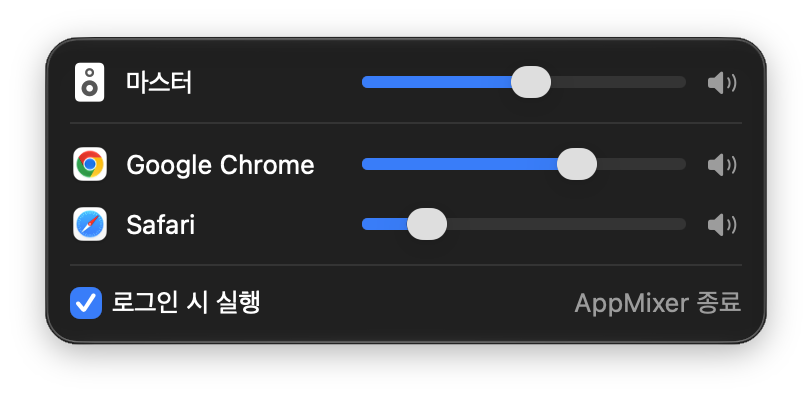
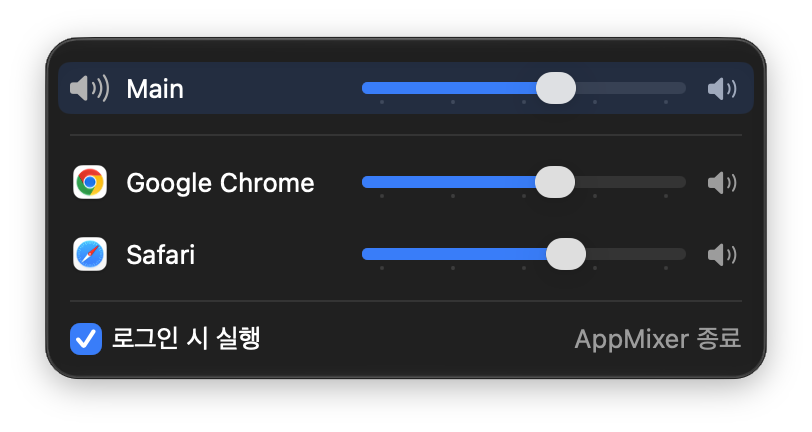
앱 감지 지연 개선, 마스터 행을 Main으로 변경
- IsRunningOutput은 변경 이벤트가 오지 않아 IsRunning을 구독
- IO 콜백 생성, 시작, 정지를 메인 스레드 밖 직렬 큐로 이동
- 맨 위 행 이름을 Main으로, 아이콘을 음파 스피커로 변경
- README 스크린샷 교체

diff --git a/AppMixer/Audio/CoreAudioEngine.swift b/AppMixer/Audio/CoreAudioEngine.swift
@@ -103,7 +103,9 @@ final class CoreAudioEngine: AudioEngine {
 
         for process in processes {
             if watchedProcesses.insert(process).inserted, let block = processListener {
-                var addr = Self.address(kAudioProcessPropertyIsRunningOutput)
+                // IsRunningOutput은 값만 바뀌고 변경 이벤트가 오지 않아서(macOS 27에서 측정) IsRunning을 구독한다.
+                // shortcut: 마이크와 출력을 같이 쓰던 앱이 출력만 멈추면 이벤트가 없어 다음 갱신 때 반영됨, 문제가 되면 주기적 확인 추가
+                var addr = Self.address(kAudioProcessPropertyIsRunning)
                 AudioObjectAddPropertyListenerBlock(process, &addr, .main, block)
             }
             guard let pid = Self.get(process, kAudioProcessPropertyPID, as: pid_t.self) else { continue }
@@ -164,7 +166,9 @@ final class CoreAudioEngine: AudioEngine {
                 tap.gain.pointee = gain
             } else if let processes = processesByOwner[owner], !processes.isEmpty,
                       let uid = Self.get(device, kAudioDevicePropertyDeviceUID, as: Unmanaged<CFString>.self)?.takeRetainedValue() {
-                taps[owner] = AppTap(processes: processes, outputUID: uid as String, gain: gain)
+                taps[owner] = AppTap(processes: processes, outputUID: uid as String, gain: gain) { [weak self] in
+                    self?.taps[owner] = nil // 시작 실패: 앱이 음소거된 채 남지 않게 정리. 다음 갱신 때 다시 시도한다
+                }
                 log.info("tap 생성 \(self.taps[owner] == nil ? "실패" : "성공"): pid \(owner)")
             }
         }
@@ -237,9 +241,13 @@ private final class AppTap {
     let gain = UnsafeMutablePointer<Float>.allocate(capacity: 1)
     private var tapID = AudioObjectID(kAudioObjectUnknown)
     private var aggregateID = AudioObjectID(kAudioObjectUnknown)
-    private var procID: AudioDeviceIOProcID?
+    /// deviceQueue 안에서만 읽고 쓴다
+    private final class ProcBox: @unchecked Sendable { var id: AudioDeviceIOProcID? }
+    private let proc = ProcBox()
+    /// IO 콜백 생성·시작·정지는 출력 장치(블루투스 등)가 깨어날 때까지 몇 초씩 걸려서 메인 스레드 밖에서, 순서대로 실행한다.
+    private static let deviceQueue = DispatchQueue(label: "com.dgim9390.AppMixer.device")
 
-    init?(processes: [AudioObjectID], outputUID: String, gain initial: Float) {
+    init?(processes: [AudioObjectID], outputUID: String, gain initial: Float, onStartFailed: @escaping @MainActor @Sendable () -> Void) {
         self.processes = Set(processes)
         gain.initialize(to: initial)
 
@@ -280,21 +288,32 @@ private final class AppTap {
         AudioObjectGetPropertyData(aggregateID, &addr, 0, nil, &size, &deviceRate)
         log.notice("tap \(format.mSampleRate, privacy: .public)Hz \(format.mChannelsPerFrame, privacy: .public)ch → 출력 \(deviceRate, privacy: .public)Hz")
 
-        // 큐 nil = HAL의 실시간 오디오 스레드에서 바로 호출
-        status = AudioDeviceCreateIOProcIDWithBlock(&procID, aggregateID, nil, Self.ioBlock(gain: gain))
-        guard status == noErr else { log.error("AudioDeviceCreateIOProcIDWithBlock 실패: \(status)"); return nil }
-        status = AudioDeviceStart(aggregateID, procID)
-        guard status == noErr else { log.error("AudioDeviceStart 실패: \(status)"); return nil }
+        let aggregate = aggregateID
+        let proc = proc
+        nonisolated(unsafe) let block = Self.ioBlock(gain: gain)
+        Self.deviceQueue.async {
+            // 큐 nil = HAL의 실시간 오디오 스레드에서 바로 호출
+            var status = AudioDeviceCreateIOProcIDWithBlock(&proc.id, aggregate, nil, block)
+            if status == noErr { status = AudioDeviceStart(aggregate, proc.id) }
+            guard status != noErr else { return }
+            log.error("IO 시작 실패: \(status)")
+            Task { @MainActor in onStartFailed() }
+        }
     }
 
     deinit {
-        if let procID {
-            AudioDeviceStop(aggregateID, procID)
-            AudioDeviceDestroyIOProcID(aggregateID, procID)
+        let (tap, aggregate) = (tapID, aggregateID)
+        let proc = proc
+        nonisolated(unsafe) let gain = gain
+        Self.deviceQueue.async {
+            if let id = proc.id {
+                AudioDeviceStop(aggregate, id)
+                AudioDeviceDestroyIOProcID(aggregate, id)
+            }
+            if aggregate != kAudioObjectUnknown { AudioHardwareDestroyAggregateDevice(aggregate) }
+            if tap != kAudioObjectUnknown { AudioHardwareDestroyProcessTap(tap) }
+            gain.deallocate() // IO 콜백이 쓰는 메모리라 정지가 끝난 뒤에 해제
         }
-        if aggregateID != kAudioObjectUnknown { AudioHardwareDestroyAggregateDevice(aggregateID) }
-        if tapID != kAudioObjectUnknown { AudioHardwareDestroyProcessTap(tapID) }
-        gain.deallocate()
     }
 
     /// 실시간 스레드에서 돈다: 할당·락·로그 금지. 입력(탭) 샘플 × gain → 출력.

diff --git a/AppMixer/Views/MixerView.swift b/AppMixer/Views/MixerView.swift
@@ -10,8 +10,8 @@ struct MixerView: View {
     var body: some View {
         VStack(alignment: .leading, spacing: 10) {
             VolumeRow(
-                title: "마스터",
-                icon: Image(systemName: "hifispeaker.fill"),
+                title: "Main",
+                icon: Image(systemName: "speaker.wave.3.fill"),
                 volume: viewModel.masterVolume,
                 isMuted: viewModel.isMasterMuted,
                 onVolumeChange: viewModel.setMasterVolume,

diff --git a/AppMixer/Views/VolumeRow.swift b/AppMixer/Views/VolumeRow.swift
@@ -12,6 +12,7 @@ struct VolumeRow: View {
     var body: some View {
         HStack(spacing: 8) {
             icon.resizable().scaledToFit().frame(width: 20, height: 20)
+                .foregroundStyle(Color(white: 0.7)) // SF Symbol에만 적용되고 앱 아이콘 색은 그대로
             Text(title).lineLimit(1).frame(width: 110, alignment: .leading)
             TickSlider(value: volume, onChange: onVolumeChange)
                 .disabled(isMuted)

diff --git a/README.md b/README.md
@@ -2,7 +2,7 @@
 
 macOS 메뉴바에서 앱별로 볼륨을 조절하는 앱입니다.
 
-<img src="docs/screenshot.png" alt="AppMixer 메뉴바 패널: 마스터 볼륨, Google Chrome과 Safari의 앱별 볼륨 슬라이더" width="400">
+<img src="docs/screenshot.png" alt="AppMixer 메뉴바 패널: Main 볼륨, Google Chrome과 Safari의 앱별 볼륨 슬라이더" width="400">
 
 macOS에는 Windows의 볼륨 믹서 같은 기능이 없어서 시스템 전체 볼륨만 바꿀 수 있습니다. AppMixer는 메뉴바 패널에 지금 소리를 내는 앱 목록을 보여 주고, 앱마다 볼륨을 따로 조절하거나 음소거할 수 있게 해 줍니다.
 
